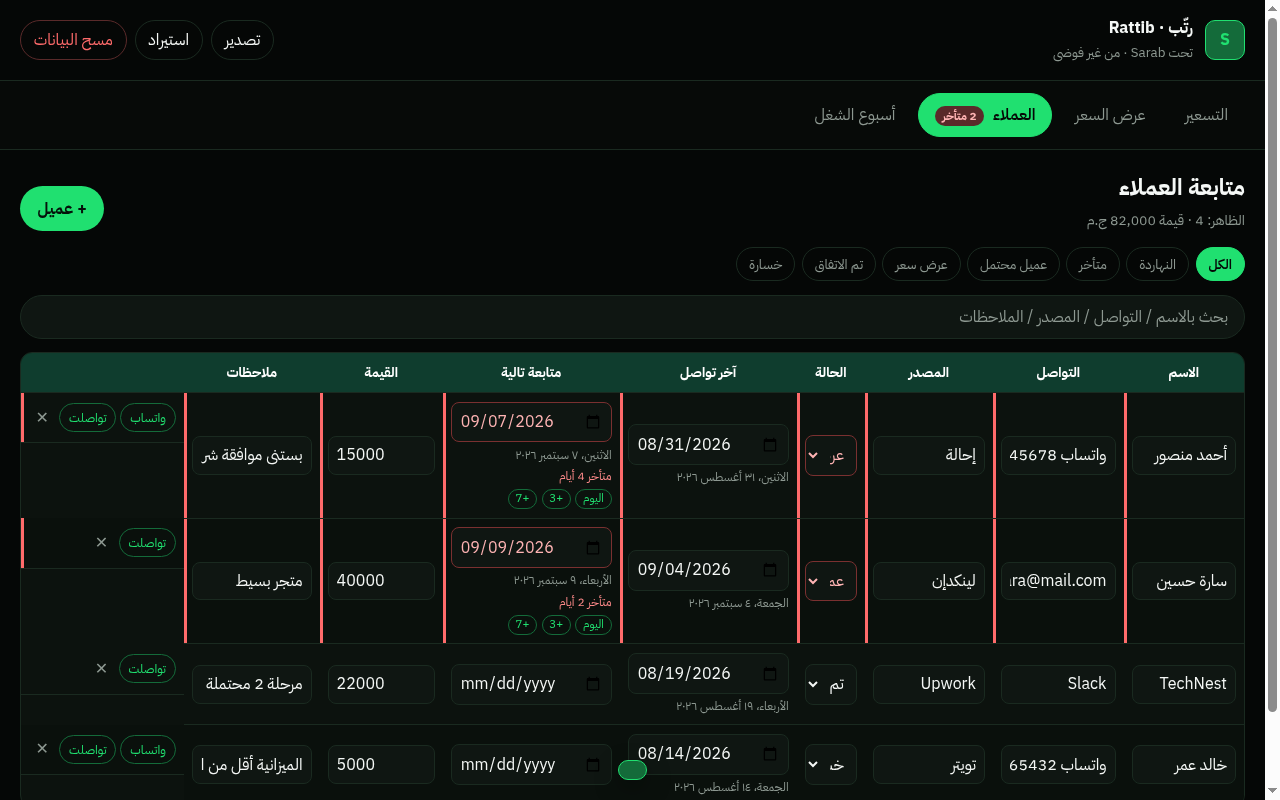
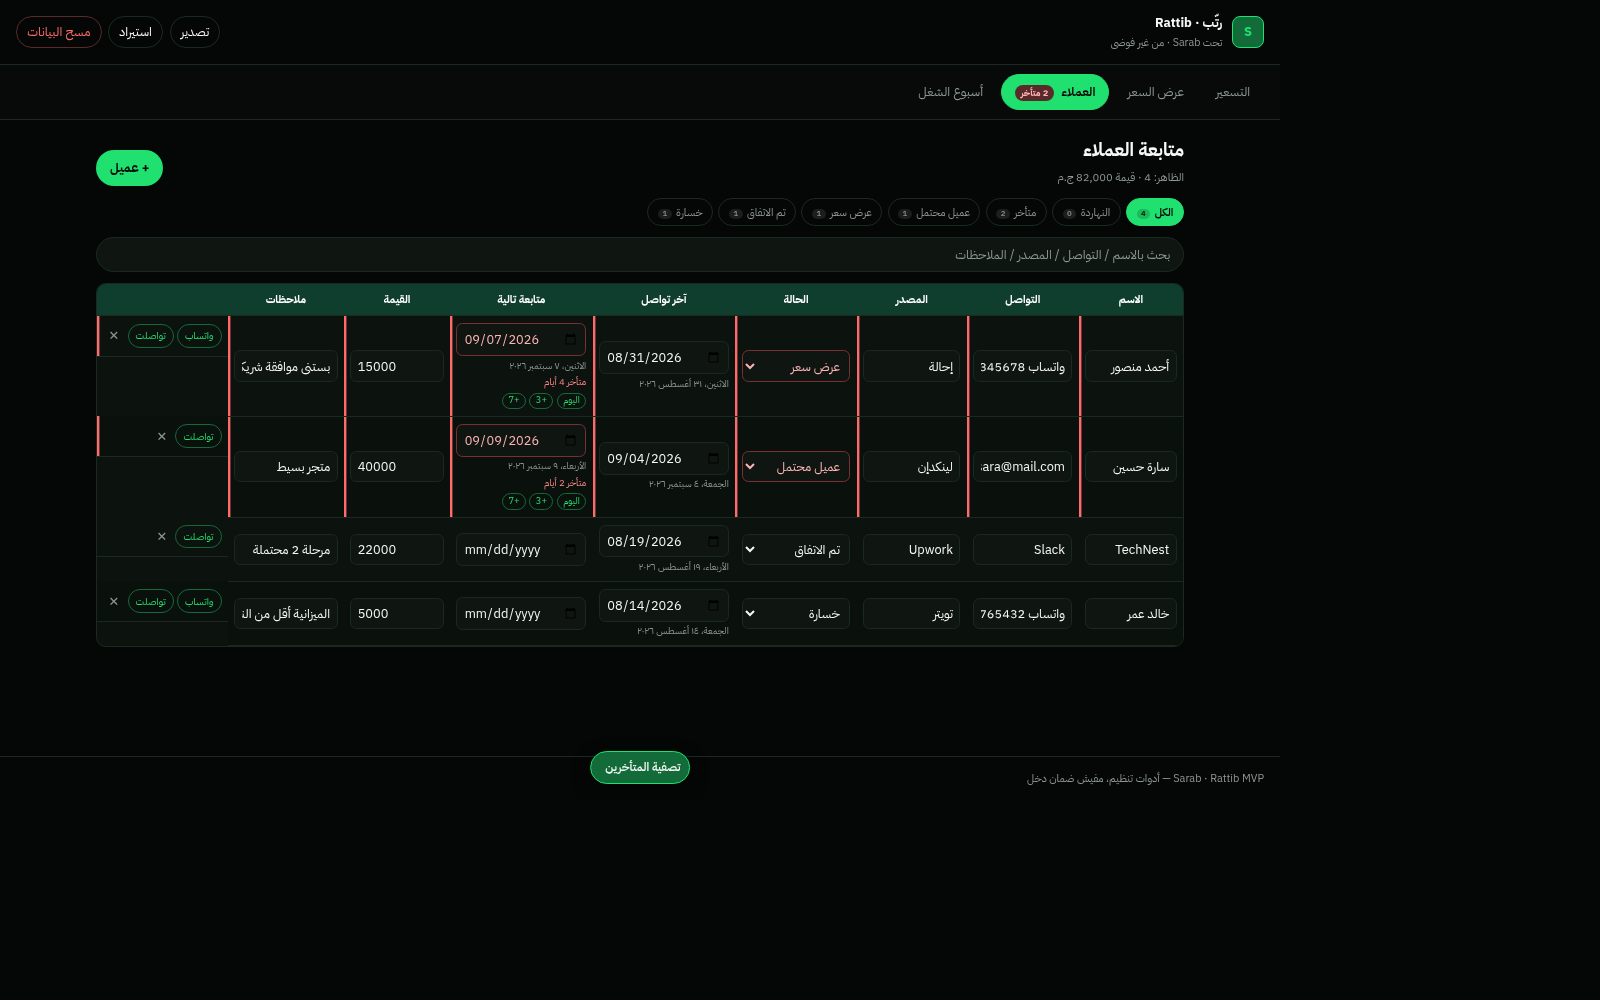
chore(landing): CRM HQ after wider status column (#40)
Full Arabic labels عرض سعر / عميل محتمل / تم الاتفاق visible.

diff --git a/index.html b/index.html
@@ -486,7 +486,7 @@
         <figcaption>App · Weekly · تم / مش بعد</figcaption>
       </figure>
       <figure class="preview-card">
-        <img src="preview-crm-hq.png" width="1280" height="800" alt="Rattib CRM: filters, search, النهاردة chip, Arabic statuses, تواصلت / WhatsApp" loading="lazy" decoding="async">
+        <img src="preview-crm-hq.png" width="1280" height="800" alt="Rattib CRM: full Arabic status labels, filters, النهاردة, تواصلت / WhatsApp" loading="lazy" decoding="async">
         <figcaption>App · CRM · filters · تواصلت</figcaption>
       </figure>
     </div>
